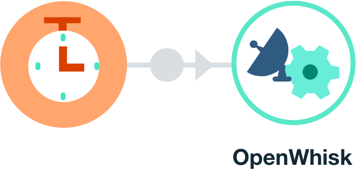
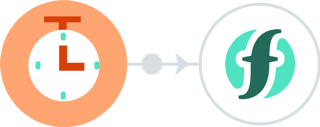
Update to Cloud Functions name and image.

diff --git a/README.md b/README.md
@@ -1,5 +1,5 @@
-# OpenWhisk Building Block - Scheduled Tasks
-Set up scheduled tasks, like a cron job or batch job, with Apache OpenWhisk on IBM Bluemix. This tutorial should take about 5 minutes to complete. After this, move on to more complex serverless applications such as those tagged [_openwhisk-hands-on-demo_](https://github.com/search?q=topic%3Aopenwhisk-hands-on-demo+org%3AIBM&type=Repositories).
+# Triggering IBM Cloud Functions with scheduled tasks
+Set up scheduled tasks, like a cron job or batch job, with IBM Cloud Functions powered by Apache OpenWhisk. This tutorial should take about 5 minutes to complete. After this, move on to more complex serverless applications such as those tagged [_openwhisk-hands-on-demo_](https://github.com/search?q=topic%3Aopenwhisk-hands-on-demo+org%3AIBM&type=Repositories).
 
 ![Sample Architecture](openwhisk-scheduled-tasks.png)
 
